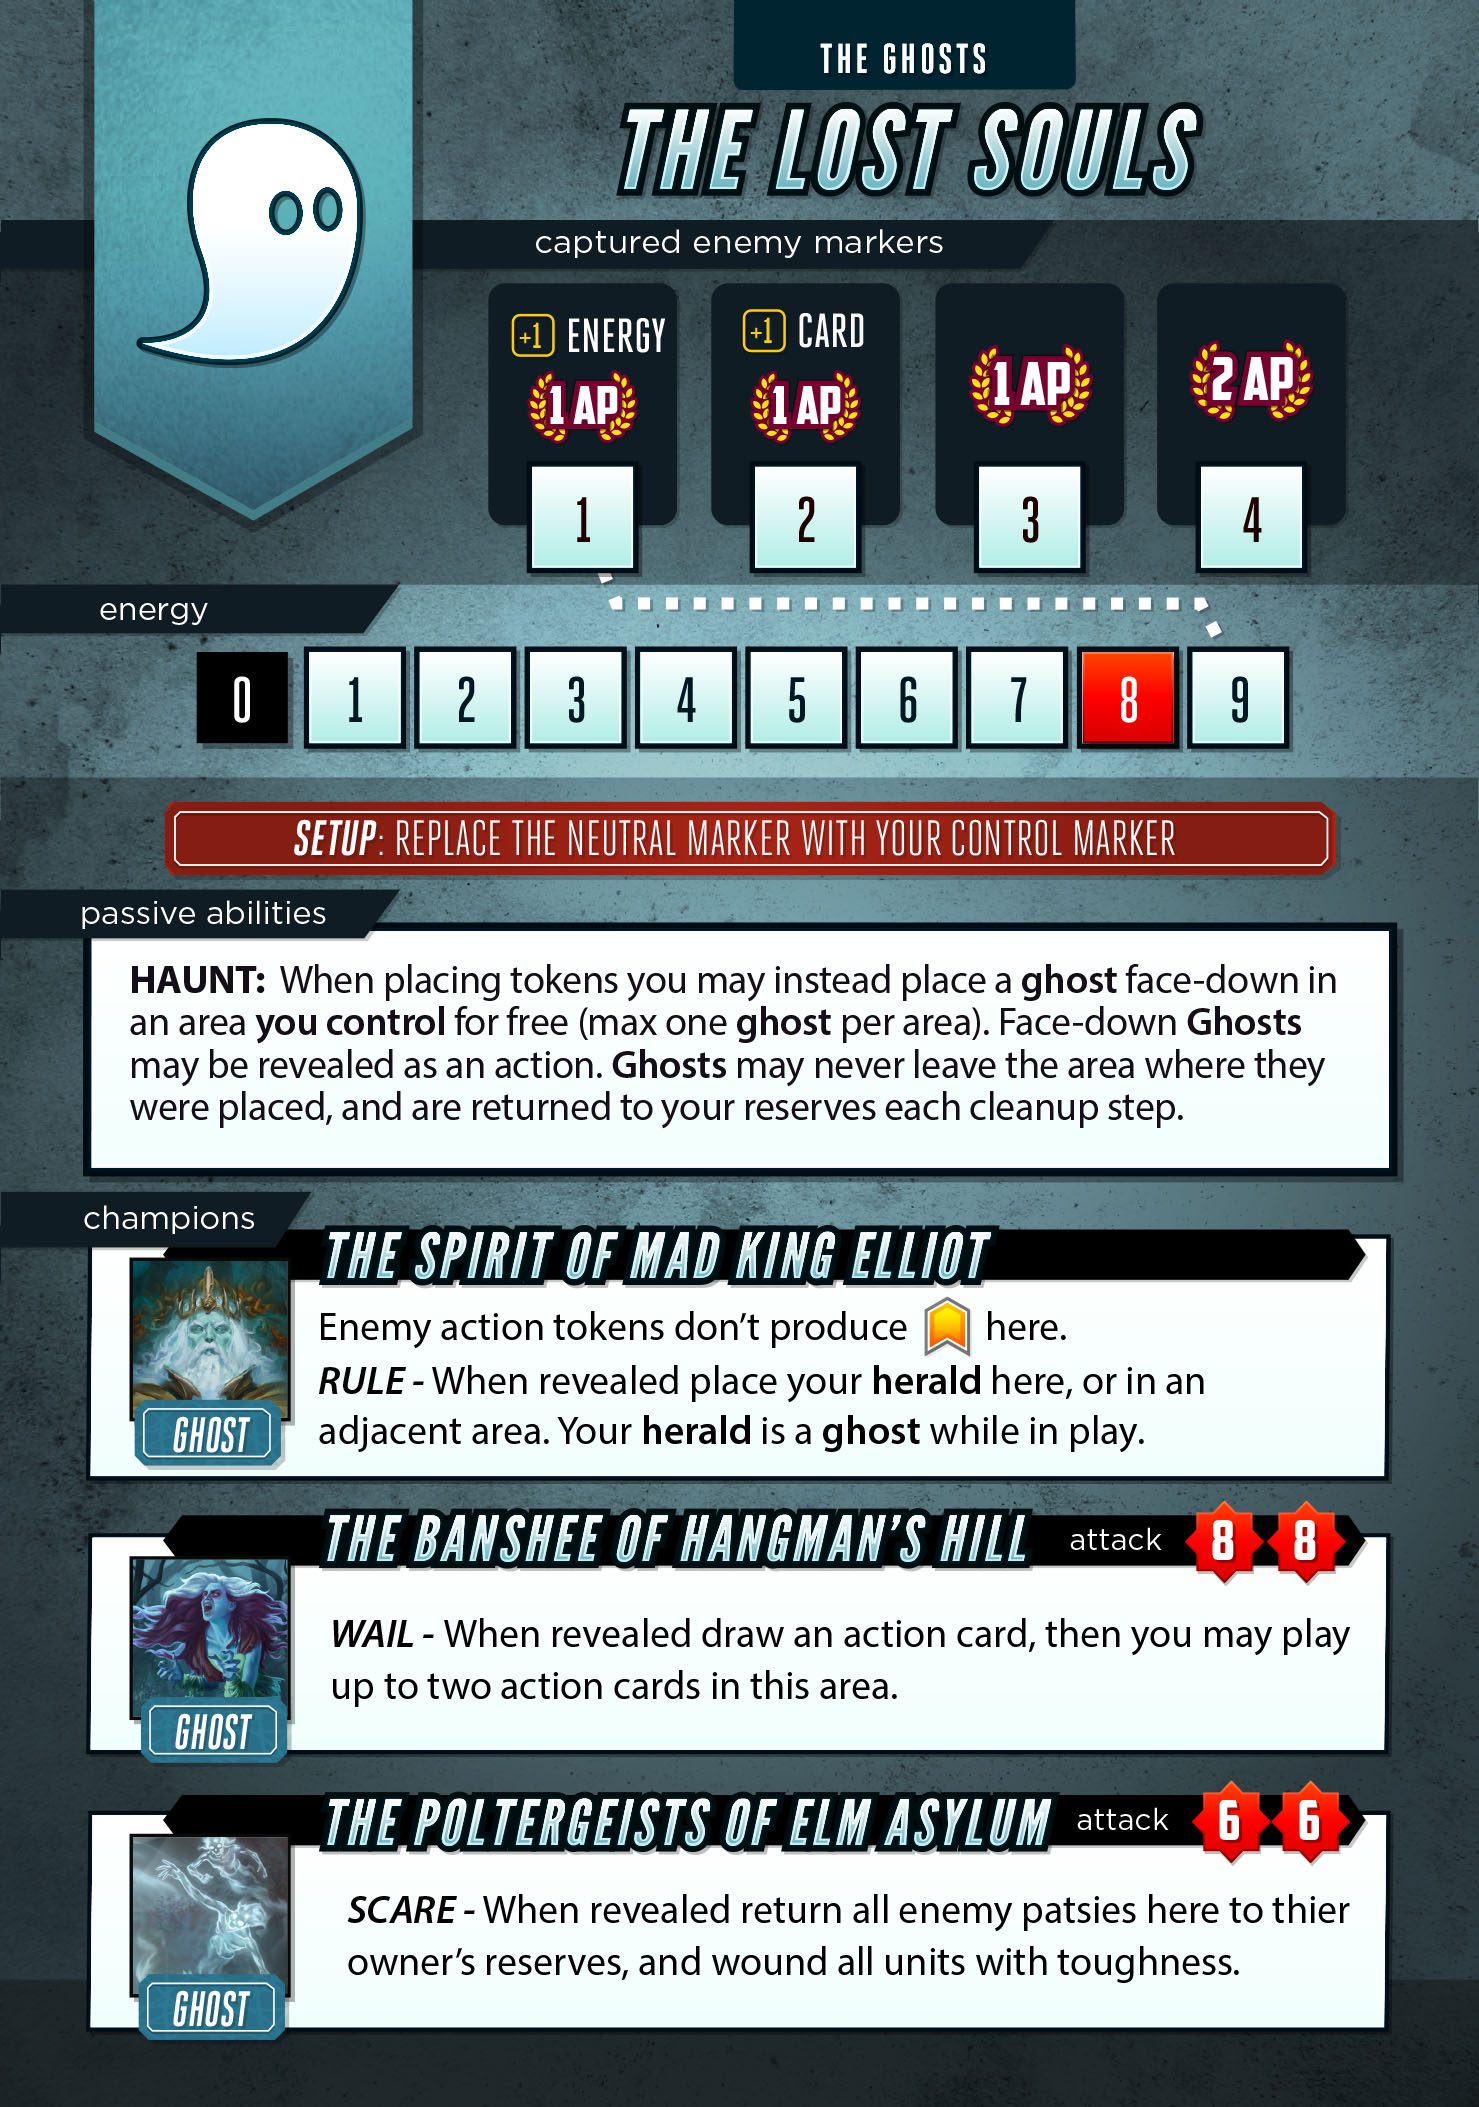
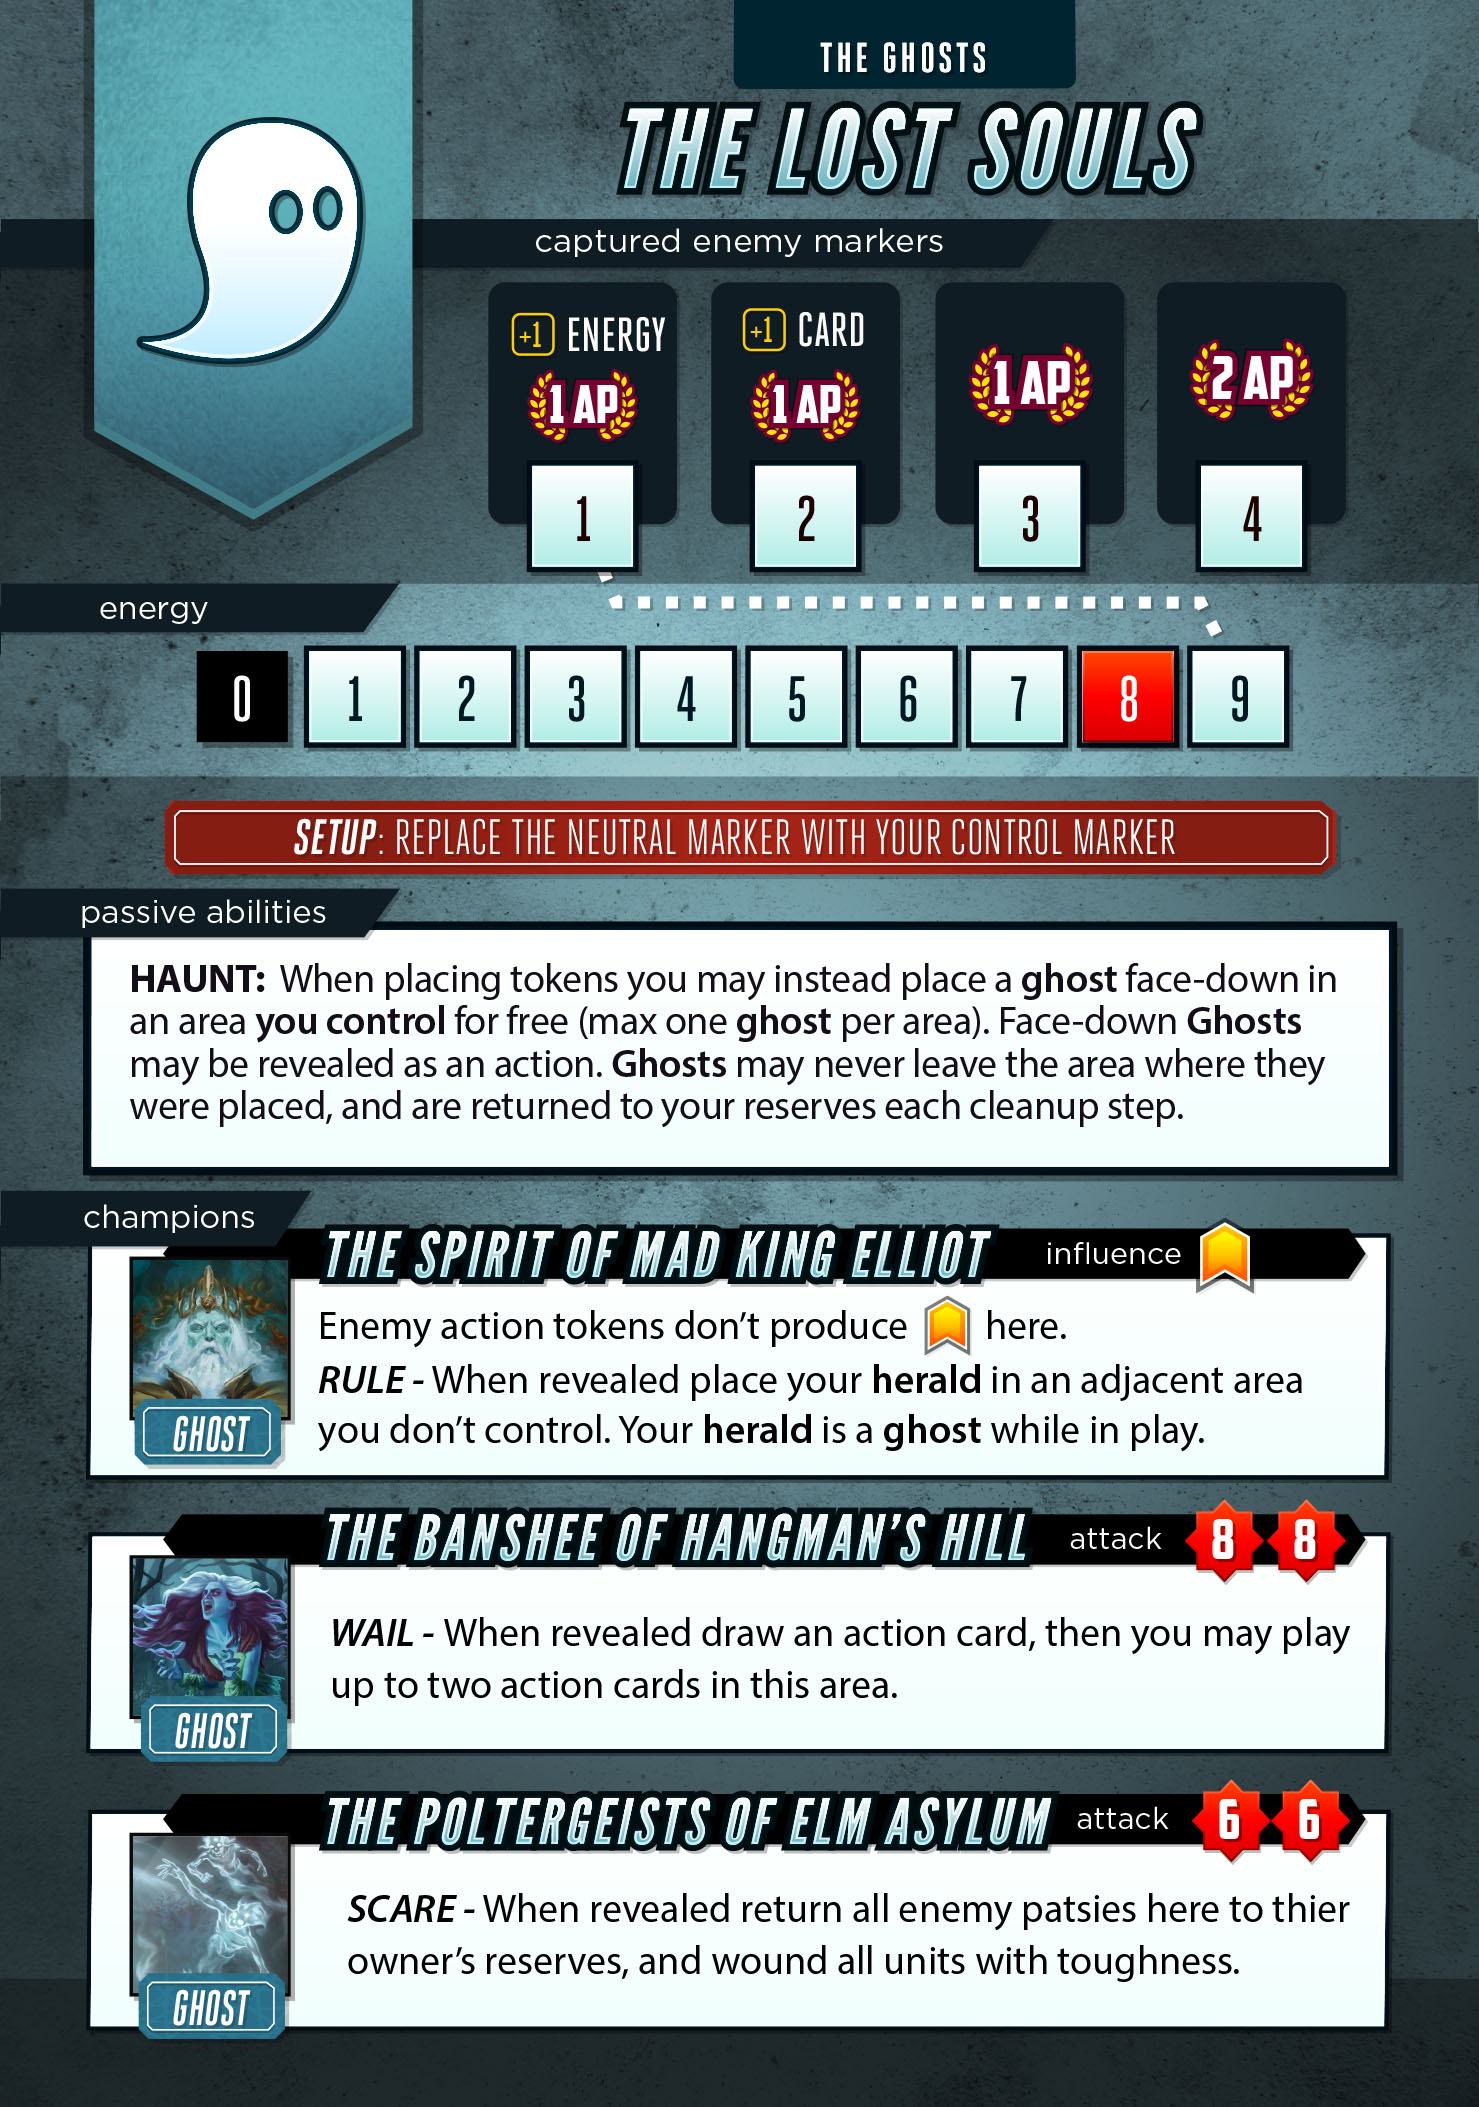
Tweak ghosts again

diff --git a/server/classes/factions/Ghosts.js b/server/classes/factions/Ghosts.js
@@ -34,7 +34,7 @@ class Ghosts extends Faction {
                 isChampion: true,
                 basic: false,
                 attack: [],
-                influence: 0,
+                influence: 1,
                 noDeploy: true,
                 noMove: true,
                 killed: false,
@@ -137,11 +137,9 @@ class Ghosts extends Faction {
     }
 
     async placeHerald( unit ){
-
-        console.log("place herald");
-
         let area = this.game().areas[ unit.location ];
-        let areas = [unit.location, ...area.data.adjacent];
+        let ownedAreas = this.areas();
+        let areas = area.data.adjacent.filter( area => !ownedAreas.includes( area ));
         let herald = this.data.units.find(unit => unit.type === 'herald');
 
         // prompt player to select an area
